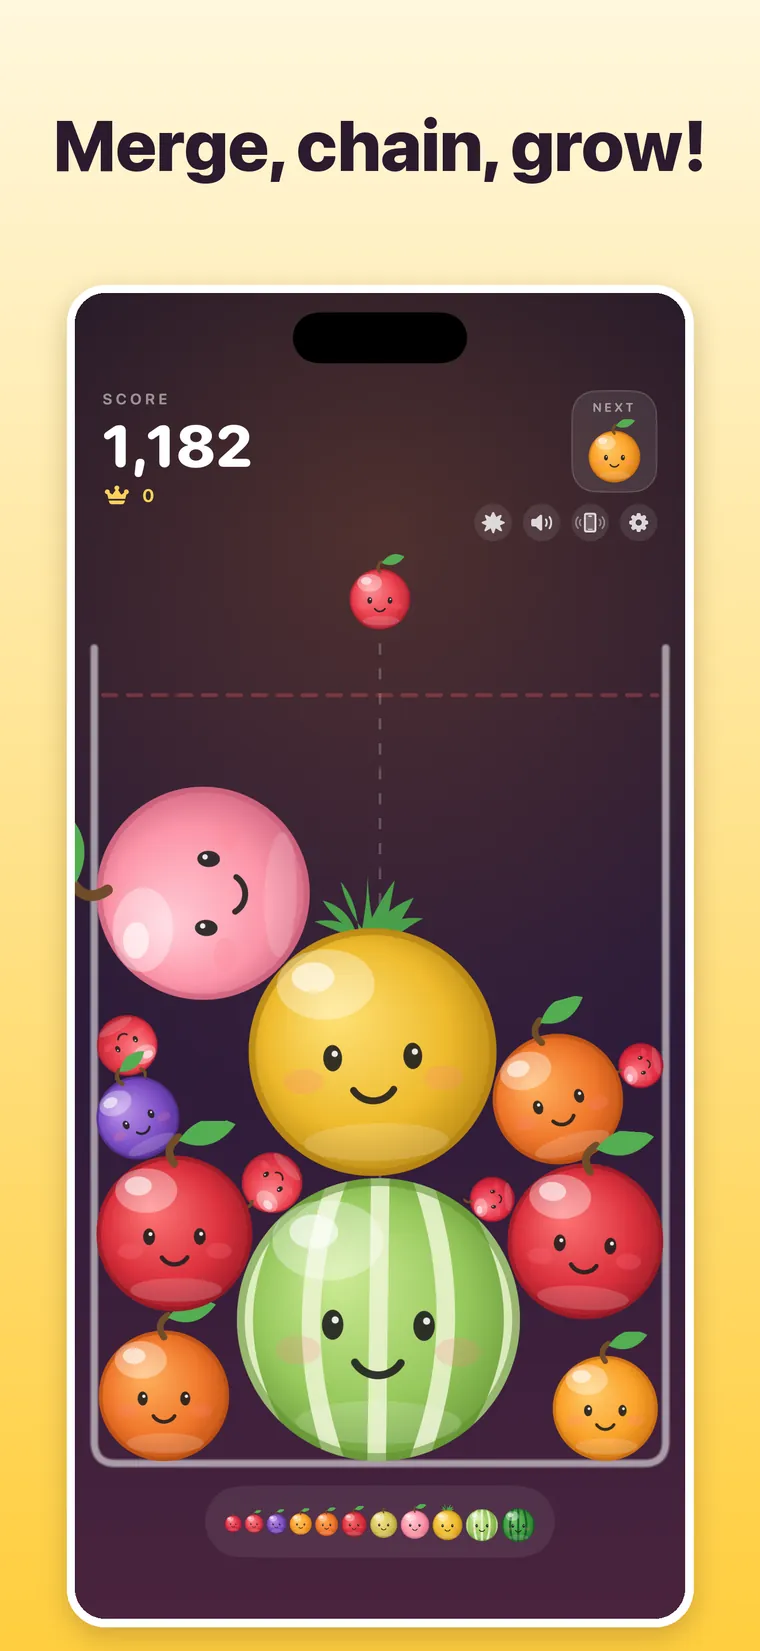
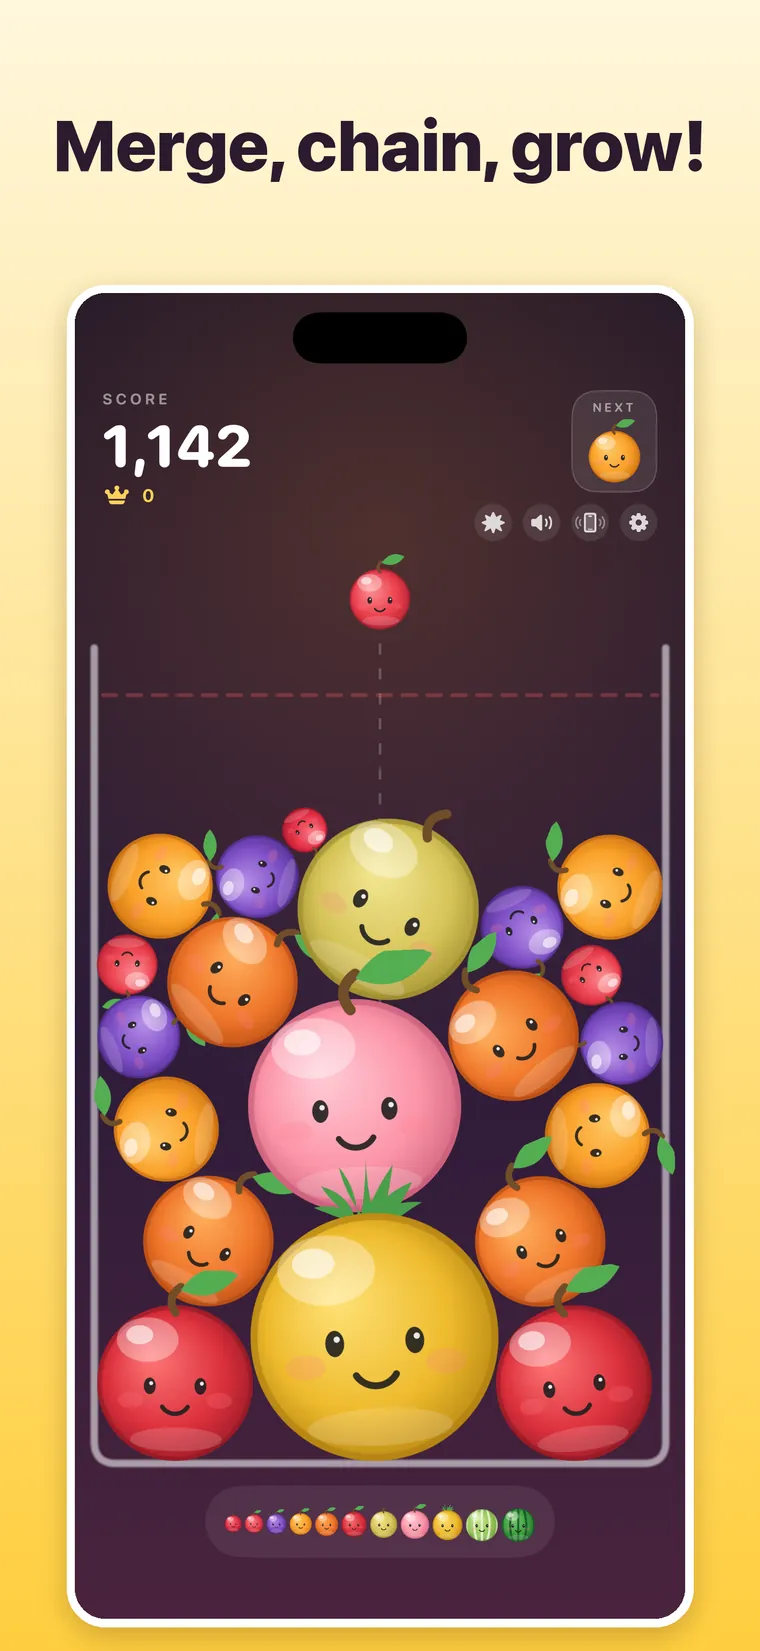
Show the jar topping out at a pineapple
The first screenshot and the title card are recaptured against the build that
keeps the melon out of the staged jar as well as the watermelon — at the size
a store listing shows them, the two green striped fruits read as the same
thing. The hero alt text follows the picture: one pineapple on the floor, and
the score the staged board actually carries.

Claude-Session: https://claude.ai/code/session_014uQvJYT8XVnPV8ZayfcjaX

Changed region(s): [[0.0908, 0.4634, 0.9079, 0.8958], [0.2421, 0.2471, 0.3026, 0.3089]]

diff --git a/index.html b/index.html
@@ -243,7 +243,7 @@ footer .copy{margin-left:auto}
         <div class="screen">
           <picture>
             <source srcset="assets/img/shot-1-01-hook.webp" type="image/webp">
-            <img src="assets/img/shot-1-01-hook.jpg" width="760" height="1651" fetchpriority="high" decoding="async" alt="Juicy Jar gameplay: a jar packed with smiling fruit, two of the biggest fruit resting at the bottom and a score of 1,168.">
+            <img src="assets/img/shot-1-01-hook.jpg" width="760" height="1651" fetchpriority="high" decoding="async" alt="Juicy Jar gameplay: a jar packed with smiling fruit, a pineapple resting at the bottom and a score of 1,142.">
           </picture>
         </div>
       </div>
